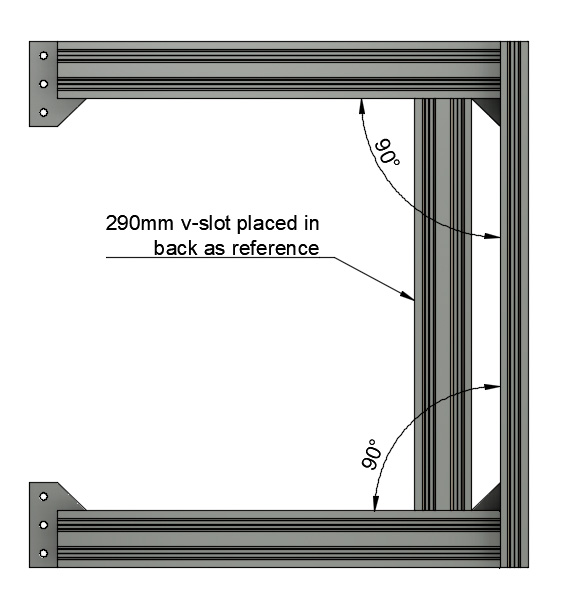
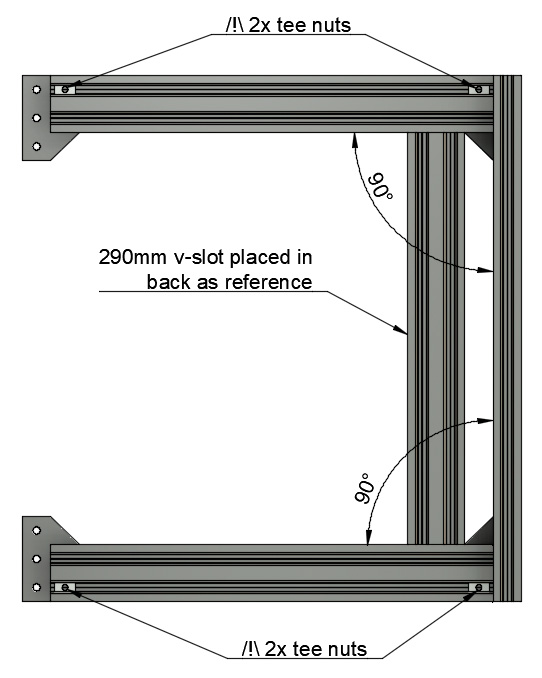
fix issue where step 4.1 was not possible due to missing t-nuts. This closes #18

diff --git a/full_upgrade/for_mk2.5/manual/assembly_instructions/step02.md b/full_upgrade/for_mk2.5/manual/assembly_instructions/step02.md
@@ -9,16 +9,17 @@
 * 1x 370mm V-Slots
 * 1x 290mm V-Slots (used for distance reference)
 * 4x M5x10mm screws
-* 4x Tee nuts
+* 8x Tee nuts
 
 #### Assembly
 
 1. Ensure the 290mm v-slot does not have sharp angle where it as been cut. We will use it as reference and it could mark your v-slots (specially black ones). If this is the case use a file to smooth the sharp angles
-1. Place the 290mm on the back between the 2x 331mm v-slots as seen on figure 2.1. Ensure there is no gap
+1. Place the 290mm v-slot on the back, between the 2x 331mm v-slots as seen on figure 2.1. Ensure there is no gap
 1. Square and tight strongly the back (8x M5 screws)<br>
    :warning: this step is very important, double check everything is perfectly square
 1. Carefully remove the 290mm v-slot
-1. Repeat step 4 and 5 to assemble the second 370mm v-slot as seen on figure 2.2<br>
+1. Add 4x tee nuts as explained on figure 2.1
+1. Repeat step 3 and 4 to assemble the second 370mm v-slot as seen on figure 2.2<br>
    :warning: this step is very important, double check everything is perfectly square
 1. Carefully remove the 290mm v-slot
 1. :warning: Take the time to double check these points :

diff --git a/full_upgrade/for_mk2_mk2s/manual/assembly_instructions/step02.md b/full_upgrade/for_mk2_mk2s/manual/assembly_instructions/step02.md
@@ -9,16 +9,17 @@
 * 1x 370mm V-Slots
 * 1x 290mm V-Slots (used for distance reference)
 * 4x M5x10mm screws
-* 4x Tee nuts
+* 8x Tee nuts
 
 #### Assembly
 
 1. Ensure the 290mm v-slot does not have sharp angle where it as been cut. We will use it as reference and it could mark your v-slots (specially black ones). If this is the case use a file to smooth the sharp angles
-1. Place the 290mm on the back between the 2x 331mm v-slots as seen on figure 2.1. Ensure there is no gap
+1. Place the 290mm v-slot on the back, between the 2x 331mm v-slots as seen on figure 2.1. Ensure there is no gap
 1. Square and tight strongly the back (8x M5 screws)<br>
    :warning: this step is very important, double check everything is perfectly square
 1. Carefully remove the 290mm v-slot
-1. Repeat step 4 and 5 to assemble the second 370mm v-slot as seen on figure 2.2<br>
+1. Add 4x tee nuts as explained on figure 2.1
+1. Repeat step 3 and 4 to assemble the second 370mm v-slot as seen on figure 2.2<br>
    :warning: this step is very important, double check everything is perfectly square
 1. Carefully remove the 290mm v-slot
 1. :warning: Take the time to double check these points :

diff --git a/full_upgrade/for_mk3/manual/assembly_instructions/step02.md b/full_upgrade/for_mk3/manual/assembly_instructions/step02.md
@@ -14,11 +14,12 @@
 #### Assembly
 
 1. Ensure the 290mm v-slot does not have sharp angle where it as been cut. We will use it as reference and it could mark your v-slots (specially black ones). If this is the case use a file to smooth the sharp angles
-1. Place the 290mm on the back between the 2x 331mm v-slots as seen on figure 2.1. Ensure there is no gap
+1. Place the 290mm v-slot on the back, between the 2x 331mm v-slots as seen on figure 2.1. Ensure there is no gap
 1. Square and tight strongly the back (8x M5 screws)<br>
    :warning: this step is very important, double check everything is perfectly square
 1. Carefully remove the 290mm v-slot
-1. Repeat step 4 and 5 to assemble the second 370mm v-slot as seen on figure 2.2<br>
+1. Add 4x tee nuts as explained on figure 2.1
+1. Repeat step 3 and 4 to assemble the second 370mm v-slot as seen on figure 2.2<br>
    :warning: this step is very important, double check everything is perfectly square
 1. Carefully remove the 290mm v-slot
 1. :warning: Take the time to double check these points :

diff --git a/full_upgrade/for_mk2.5/manual/assembly_instructions/step04.md b/full_upgrade/for_mk2.5/manual/assembly_instructions/step04.md
@@ -8,11 +8,11 @@
 
 * 4x Black angle corners
 * 8x M5x8mm screws
-* 8x Tee nuts
+* 4x Tee nuts
 
 #### Assembly
 
-1. Screw 4x black angle corners on each corner as seen on figure 4.1
+1. Screw 4x black angle corners on each corner as seen on figure 4.1 (with 4x tee nuts)
 1. Check the frame is not twisted by pressing down each corner (on the v-slots)
 1. If it is twisted, place an object (in red on figure 4.2) under one corner and apply pressure simultaneously to both perpendicular corners (A and B). Repeat this for left and right side until you get a perfectly flat frame<br>
    :warning: this step is very important, double check everything the frame is very flat and everything is still square

diff --git a/full_upgrade/for_mk2_mk2s/manual/assembly_instructions/step04.md b/full_upgrade/for_mk2_mk2s/manual/assembly_instructions/step04.md
@@ -8,11 +8,11 @@
 
 * 4x Black angle corners
 * 8x M5x8mm screws
-* 8x Tee nuts
+* 4x Tee nuts
 
 #### Assembly
 
-1. Screw 4x black angle corners on each corner as seen on figure 4.1
+1. Screw 4x black angle corners on each corner as seen on figure 4.1 (with 4x tee nuts)
 1. Check the frame is not twisted by pressing down each corner (on the v-slots)
 1. If it is twisted, place an object (in red on figure 4.2) under one corner and apply pressure simultaneously to both perpendicular corners (A and B). Repeat this for left and right side until you get a perfectly flat frame<br>
    :warning: this step is very important, double check everything the frame is very flat and everything is still square

diff --git a/full_upgrade/for_mk3/manual/assembly_instructions/step04.md b/full_upgrade/for_mk3/manual/assembly_instructions/step04.md
@@ -8,11 +8,11 @@
 
 * 4x Black angle corners
 * 8x M5x8mm screws
-* 8x Tee nuts
+* 4x Tee nuts
 
 #### Assembly
 
-1. Screw 4x black angle corners on each corner as seen on figure 4.1
+1. Screw 4x black angle corners on each corner as seen on figure 4.1 (with 4x tee nuts)
 1. Check the frame is not twisted by pressing down each corner (on the v-slots)
 1. If it is twisted, place an object (in red on figure 4.2) under one corner and apply pressure simultaneously to both perpendicular corners (A and B). Repeat this for left and right side until you get a perfectly flat frame<br>
    :warning: this step is very important, double check everything the frame is very flat and everything is still square
